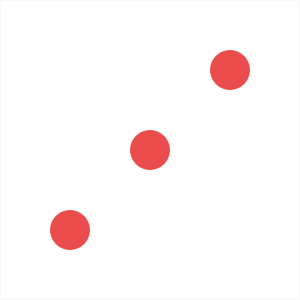
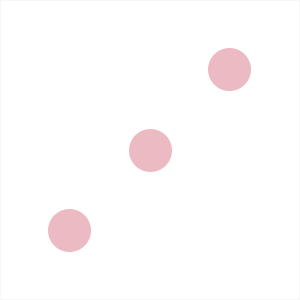
style changes

Changed region(s): [[0.69, 0.15, 0.84, 0.33], [0.15, 0.69, 0.33, 0.84], [0.42, 0.42, 0.57, 0.57]]

diff --git a/src/styles.css b/src/styles.css
@@ -16,7 +16,7 @@
 }
 
 body {
-    background-image: linear-gradient(rgba(62, 20, 20, 0.4), rgba(62, 20, 20, 0.4)), url(back.jpg);
+    background-image: url(pig.jpg);
     background-size: cover;
     background-position: center;
     font-family: Lato;
@@ -66,7 +66,7 @@ body {
     text-align: center;
     font-size: 80px;
     font-weight: 100;
-    color: #EB4D4D;
+    color: #ECBAC3;
     margin-bottom: 130px;
 }
 
@@ -77,15 +77,15 @@ body {
     content: "\2022";
     font-size: 47px;
     position: absolute;
-    color: #EB4D4D;
+    color: #ECBAC3;
     top: -7px;
     right: 10px;
 
 }
 
 .player-current-box {
-    background-color: #EB4D4D;
-    color: #fff;
+    background-color: #ECBAC3;
+    color: black;
     width: 40%;
     margin: 0 auto;
     padding: 12px;
@@ -127,7 +127,7 @@ button:focus {
 }
 
 i {
-    color: #EB4D4D;
+    color: #ECBAC3;
     display: inline-block;
     margin-right: 15px;
     font-size: 32px;
@@ -151,4 +151,4 @@ i {
 }
 
 .winner { background-color: #f7f7f7; }
-.winner .player-name { font-weight: 300; color: #EB4D4D; }
+.winner .player-name { font-weight: 300; color: #ECBAC3; }
